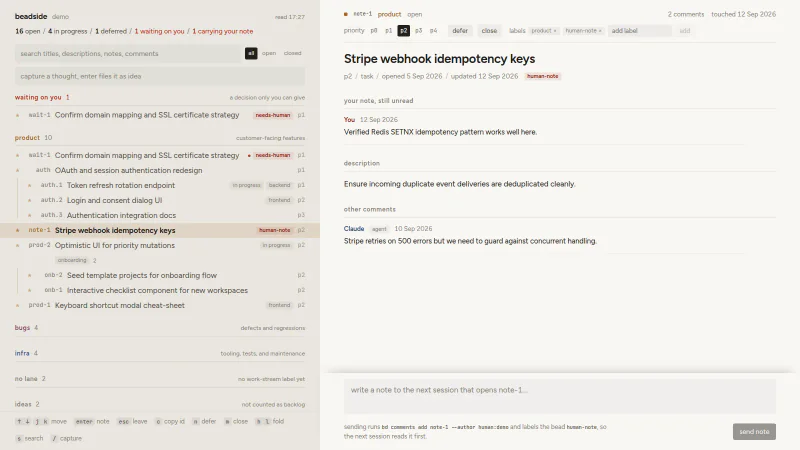
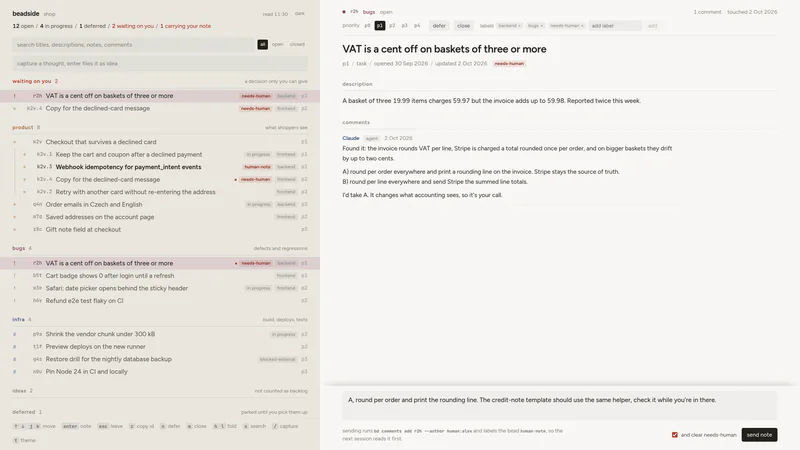
feat: recaptured showcase shots at 2x, second shots for the flagships and nákup told in three phones

diff --git a/src/lib/showcase-images-generated.ts b/src/lib/showcase-images-generated.ts
@@ -3,77 +3,131 @@
 import type { ResponsiveImage } from "./responsive-image";
 
 export const SHOWCASE_IMAGES = {
-    // beadside.webp
+    // beadside-extra-dark-note-1920x1080-2x.png
+    "beadside-note": {
+        src: "/showcase/beadside-note-2560.webp",
+        width: 2560,
+        height: 1440,
+        srcSet: "/showcase/beadside-note-480.webp 480w, /showcase/beadside-note-800.webp 800w, /showcase/beadside-note-1200.webp 1200w, /showcase/beadside-note-1600.webp 1600w, /showcase/beadside-note-2000.webp 2000w, /showcase/beadside-note-2560.webp 2560w",
[1 lines of base64/hex data omitted]
+        color: "#22201d",
+    },
+    // beadside-waiting-1920x1080-2x.png
     beadside: {
-        src: "/showcase/beadside-1600.webp",
-        width: 1600,
-        height: 900,
-        srcSet: "/showcase/beadside-480.webp 480w, /showcase/beadside-800.webp 800w, /showcase/beadside-1200.webp 1200w, /showcase/beadside-1600.webp 1600w",
[1 lines of base64/hex data omitted]
-        color: "#f5f3ef",
+        src: "/showcase/beadside-2560.webp",
+        width: 2560,
+        height: 1440,
+        srcSet: "/showcase/beadside-480.webp 480w, /showcase/beadside-800.webp 800w, /showcase/beadside-1200.webp 1200w, /showcase/beadside-1600.webp 1600w, /showcase/beadside-2000.webp 2000w, /showcase/beadside-2560.webp 2560w",
[1 lines of base64/hex data omitted]
+        color: "#f4f3f0",
     },
-    // diskzokej.webp
+    // diskzokej-dial-2560x1440.png
     diskzokej: {
-        src: "/showcase/diskzokej-1440.webp",
-        width: 1440,
-        height: 900,
-        srcSet: "/showcase/diskzokej-480.webp 480w, /showcase/diskzokej-800.webp 800w, /showcase/diskzokej-1200.webp 1200w, /showcase/diskzokej-1440.webp 1440w",
[1 lines of base64/hex data omitted]
-        color: "#211e18",
+        src: "/showcase/diskzokej-2560.webp",
+        width: 2560,
+        height: 1440,
+        srcSet: "/showcase/diskzokej-480.webp 480w, /showcase/diskzokej-800.webp 800w, /showcase/diskzokej-1200.webp 1200w, /showcase/diskzokej-1600.webp 1600w, /showcase/diskzokej-2000.webp 2000w, /showcase/diskzokej-2560.webp 2560w",
[1 lines of base64/hex data omitted]
+        color: "#561048",
     },
-    // fonts.webp
+    // fonts-swipe-2560x1440.png
     fonts: {
-        src: "/showcase/fonts-1440.webp",
-        width: 1440,
-        height: 900,
-        srcSet: "/showcase/fonts-480.webp 480w, /showcase/fonts-800.webp 800w, /showcase/fonts-1200.webp 1200w, /showcase/fonts-1440.webp 1440w",
[1 lines of base64/hex data omitted]
-        color: "#f1efee",
+        src: "/showcase/fonts-2560.webp",
+        width: 2560,
+        height: 1440,
+        srcSet: "/showcase/fonts-480.webp 480w, /showcase/fonts-800.webp 800w, /showcase/fonts-1200.webp 1200w, /showcase/fonts-1600.webp 1600w, /showcase/fonts-2000.webp 2000w, /showcase/fonts-2560.webp 2560w",
[1 lines of base64/hex data omitted]
+        color: "#f8f7f5",
     },
-    // good-cookie.webp
+    // good-cookie-hero-1920x1080-2x.png
     "good-cookie": {
-        src: "/showcase/good-cookie-1440.webp",
-        width: 1440,
-        height: 900,
-        srcSet: "/showcase/good-cookie-480.webp 480w, /showcase/good-cookie-800.webp 800w, /showcase/good-cookie-1200.webp 1200w, /showcase/good-cookie-1440.webp 1440w",
[1 lines of base64/hex data omitted]
-        color: "#bcb5aa",
+        src: "/showcase/good-cookie-2560.webp",
+        width: 2560,
+        height: 1440,
+        srcSet: "/showcase/good-cookie-480.webp 480w, /showcase/good-cookie-800.webp 800w, /showcase/good-cookie-1200.webp 1200w, /showcase/good-cookie-1600.webp 1600w, /showcase/good-cookie-2000.webp 2000w, /showcase/good-cookie-2560.webp 2560w",
[1 lines of base64/hex data omitted]
+        color: "#cec4b8",
     },
-    // models.webp
+    // models-extra-frontier-1920x1080-2x.png
+    "models-frontier": {
+        src: "/showcase/models-frontier-2560.webp",
+        width: 2560,
+        height: 1440,
+        srcSet: "/showcase/models-frontier-480.webp 480w, /showcase/models-frontier-800.webp 800w, /showcase/models-frontier-1200.webp 1200w, /showcase/models-frontier-1600.webp 1600w, /showcase/models-frontier-2000.webp 2000w, /showcase/models-frontier-2560.webp 2560w",
[1 lines of base64/hex data omitted]
+        color: "#161719",
+    },
+    // models-table-1920x1080-2x.png
     models: {
-        src: "/showcase/models-1440.webp",
-        width: 1440,
-        height: 900,
-        srcSet: "/showcase/models-480.webp 480w, /showcase/models-800.webp 800w, /showcase/models-1200.webp 1200w, /showcase/models-1440.webp 1440w",
[1 lines of base64/hex data omitted]
-        color: "#17191a",
+        src: "/showcase/models-2560.webp",
+        width: 2560,
+        height: 1440,
+        srcSet: "/showcase/models-480.webp 480w, /showcase/models-800.webp 800w, /showcase/models-1200.webp 1200w, /showcase/models-1600.webp 1600w, /showcase/models-2000.webp 2000w, /showcase/models-2560.webp 2560w",
[1 lines of base64/hex data omitted]
+        color: "#171a1c",
     },
-    // nakup.webp
-    nakup: {
-        src: "/showcase/nakup-440.webp",
-        width: 440,
-        height: 850,
-        srcSet: "/showcase/nakup-440.webp 440w",
[1 lines of base64/hex data omitted]
-        color: "#eeeee9",
+    // nakup-2-she-adds-390x844-3x.png
+    "nakup-adds": {
+        src: "/showcase/nakup-adds-1170.webp",
+        width: 1170,
+        height: 2532,
+        srcSet: "/showcase/nakup-adds-480.webp 480w, /showcase/nakup-adds-800.webp 800w, /showcase/nakup-adds-1170.webp 1170w",
[1 lines of base64/hex data omitted]
+        color: "#e7ebf0",
     },
-    // t3.webp
+    // nakup-1-list-390x844-3x.png
+    "nakup-list": {
+        src: "/showcase/nakup-list-1170.webp",
+        width: 1170,
+        height: 2532,
+        srcSet: "/showcase/nakup-list-480.webp 480w, /showcase/nakup-list-800.webp 800w, /showcase/nakup-list-1170.webp 1170w",
[1 lines of base64/hex data omitted]
+        color: "#efebe3",
+    },
+    // nakup-3-in-the-shop-390x844-3x.png
+    "nakup-shop": {
+        src: "/showcase/nakup-shop-1170.webp",
+        width: 1170,
+        height: 2532,
+        srcSet: "/showcase/nakup-shop-480.webp 480w, /showcase/nakup-shop-800.webp 800w, /showcase/nakup-shop-1170.webp 1170w",
[1 lines of base64/hex data omitted]
+        color: "#ede9de",
+    },
+    // t3-extra-ctrl-tab-1920x1080-2x.png
+    "t3-switcher": {
+        src: "/showcase/t3-switcher-2560.webp",
+        width: 2560,
+        height: 1440,
+        srcSet: "/showcase/t3-switcher-480.webp 480w, /showcase/t3-switcher-800.webp 800w, /showcase/t3-switcher-1200.webp 1200w, /showcase/t3-switcher-1600.webp 1600w, /showcase/t3-switcher-2000.webp 2000w, /showcase/t3-switcher-2560.webp 2560w",
[1 lines of base64/hex data omitted]
+        color: "#0d0e18",
+    },
+    // t3-hero-1920x1080-2x.png
     t3: {
-        src: "/showcase/t3-1440.webp",
-        width: 1440,
-        height: 900,
-        srcSet: "/showcase/t3-480.webp 480w, /showcase/t3-800.webp 800w, /showcase/t3-1200.webp 1200w, /showcase/t3-1440.webp 1440w",
[1 lines of base64/hex data omitted]
-        color: "#151223",
+        src: "/showcase/t3-2560.webp",
+        width: 2560,
+        height: 1440,
+        srcSet: "/showcase/t3-480.webp 480w, /showcase/t3-800.webp 800w, /showcase/t3-1200.webp 1200w, /showcase/t3-1600.webp 1600w, /showcase/t3-2000.webp 2000w, /showcase/t3-2560.webp 2560w",
[1 lines of base64/hex data omitted]
+        color: "#111018",
     },
-    // tally.webp
+    // tally-extra-timeline-2560x1440.png
+    "tally-timeline": {
+        src: "/showcase/tally-timeline-2560.webp",
+        width: 2560,
+        height: 1440,
+        srcSet: "/showcase/tally-timeline-480.webp 480w, /showcase/tally-timeline-800.webp 800w, /showcase/tally-timeline-1200.webp 1200w, /showcase/tally-timeline-1600.webp 1600w, /showcase/tally-timeline-2000.webp 2000w, /showcase/tally-timeline-2560.webp 2560w",
[1 lines of base64/hex data omitted]
+        color: "#f3f0ea",
+    },
+    // tally-today-2560x1440.png
     tally: {
-        src: "/showcase/tally-1440.webp",
-        width: 1440,
-        height: 900,
-        srcSet: "/showcase/tally-480.webp 480w, /showcase/tally-800.webp 800w, /showcase/tally-1200.webp 1200w, /showcase/tally-1440.webp 1440w",
[1 lines of base64/hex data omitted]
-        color: "#f1f0ea",
+        src: "/showcase/tally-2560.webp",
+        width: 2560,
+        height: 1440,
+        srcSet: "/showcase/tally-480.webp 480w, /showcase/tally-800.webp 800w, /showcase/tally-1200.webp 1200w, /showcase/tally-1600.webp 1600w, /showcase/tally-2000.webp 2000w, /showcase/tally-2560.webp 2560w",
[1 lines of base64/hex data omitted]
+        color: "#f3f0ea",
     },
 } as const satisfies Record<string, ResponsiveImage>;
 

diff --git a/src/lib/showcase.ts b/src/lib/showcase.ts
@@ -51,8 +51,13 @@ export const SHOWCASE: ShowcaseProject[] = [
         shots: [
             {
                 image: SHOWCASE_IMAGES.beadside,
-                alt: "beadside: an invented backlog grouped by lane, beside an open issue with a human note and an agent's reply",
-                caption: "the real board, with an invented backlog",
+                alt: "beadside in its light look: an invented shop backlog grouped by lane, an agent's either-or question about a vat rounding bug waiting on the human, and a reply typed into the note box",
+                caption: "an agent asks, i answer · invented backlog",
+            },
+            {
+                image: SHOWCASE_IMAGES["beadside-note"],
+                alt: "beadside in its dark look: a webhook issue carrying the human's unread note above an agent's proposal",
+                caption: "the night look: a note the next session reads first",
             },
         ],
         links: [{ href: "https://github.com/thatmike1/beadside", label: "get beadside" }],
@@ -68,8 +73,13 @@ export const SHOWCASE: ShowcaseProject[] = [
         shots: [
             {
                 image: SHOWCASE_IMAGES.tally,
-                alt: "tally explains a synthetic usage block and splits it across three invented development sessions",
-                caption: "the running app, fed entirely synthetic usage and sessions",
+                alt: "tally's today page on a synthetic week: 59% of the five-hour block used, the sessions that spent it, a when-did-it-happen chart and the weekly meters",
+                caption: "the real app, fed an invented week of sessions and meter readings",
+            },
+            {
+                image: SHOWCASE_IMAGES["tally-timeline"],
+                alt: "tally's timeline at day zoom: meter lines, block pace, cost by token kind, and which project ate the points",
+                caption: "the timeline: where a day's points went",
             },
         ],
         links: [{ href: "https://github.com/thatmike1/tally", label: "see the source" }],
@@ -85,8 +95,8 @@ export const SHOWCASE: ShowcaseProject[] = [
         shots: [
             {
                 image: SHOWCASE_IMAGES.fonts,
-                alt: "font tinder shows an unnamed font in a chat and in a long reading sample, with swipe controls below",
-                caption: "judge the font in the places you'll actually read it",
+                alt: "font tinder's swipe screen: one unnamed font set in a chat, a long read, a small settings panel and a letter-detail panel, with nope, skip, love and like below",
+                caption: "judge a font in the places you'll actually read it",
             },
         ],
         links: [{ href: "https://fonts.thatmike1.dev/", label: "find your font" }],
@@ -102,8 +112,8 @@ export const SHOWCASE: ShowcaseProject[] = [
         shots: [
             {
                 image: SHOWCASE_IMAGES.diskzokej,
-                alt: "diskzokej's public radio dial with stations laid out from drift to loud, and a quiet player",
-                caption: "the public dial · it stays quiet until you press play",
+                alt: "diskzokej's public dial tuned to a synthwave station: the needle on the ruler, now playing, and every lane of stations in its own column",
+                caption: "the public dial, on air",
             },
         ],
         links: [{ href: "https://diskzokej.thatmike1.dev/", label: "turn the dial" }],
@@ -119,8 +129,13 @@ export const SHOWCASE: ShowcaseProject[] = [
         shots: [
             {
                 image: SHOWCASE_IMAGES.models,
-                alt: "model map's sortable table of models and reasoning efforts, with cost per task and benchmark filters",
+                alt: "model map's ranked table of models and reasoning efforts, with filters above and the best value in each column shaded",
                 caption: "a snapshot; today's ranking has probably moved",
+            },
+            {
+                image: SHOWCASE_IMAGES["models-frontier"],
+                alt: "model map's score-against-cost chart: intelligence index against dollars per task on a log scale, with the frontier stepping through the best points",
+                caption: "up and left is better; the line is the frontier",
             },
         ],
         links: [{ href: "https://models.thatmike1.dev/", label: "explore the map" }],
@@ -136,8 +151,13 @@ export const SHOWCASE: ShowcaseProject[] = [
         shots: [
             {
                 image: SHOWCASE_IMAGES.t3,
-                alt: "the t3 code fork's showcase site walks through the keyboard, sidebar, widget and issue-link additions in a demo thread",
+                alt: "the t3 code fork's showcase site: a big heading beside a live mock of the app with numbered dots on each addition",
                 caption: "the showcase site: click through the additions before installing anything",
+            },
+            {
+                image: SHOWCASE_IMAGES["t3-switcher"],
+                alt: "the showcase's ctrl+tab demo caught with the recent-threads switcher open",
+                caption: "ctrl+tab between threads, the way an editor does it",
             },
         ],
         links: [
@@ -160,8 +180,8 @@ export const SUPPORTING: ShowcaseProject[] = [
         shots: [
             {
                 image: SHOWCASE_IMAGES["good-cookie"],
-                alt: "good cookie's live demo: its consent banner holding back a tracking script on an invented shop",
-                caption: "the working banner demo, on a made-up shop",
+                alt: "good cookie's homepage: the $29 pack pitch beside a live consent banner on a made-up shop, with a tracking-cookie probe and a readout of what got blocked",
+                caption: "the real banner, on a made-up shop",
             },
         ],
         links: [{ href: "https://goodcookie.app/", label: "try the banner" }],
@@ -176,9 +196,19 @@ export const SUPPORTING: ShowcaseProject[] = [
         stack: "react · typescript · dependency-free node · sse · service worker",
         shots: [
             {
-                image: SHOWCASE_IMAGES.nakup,
-                alt: "nákup with invented groceries and two anonymous people, in blue and yellow inks",
-                caption: "the actual app · invented groceries and people",
+                image: SHOWCASE_IMAGES["nakup-list"],
+                alt: "nákup on tomáš's phone at home: fourteen things on the list in two inks, and a line saying bára is looking too",
+                caption: "1 · at home, both inks on one list · an invented household",
+            },
+            {
+                image: SHOWCASE_IMAGES["nakup-adds"],
+                alt: "nákup on bára's phone while tomáš is in the shop: the header says he's shopping, and she is typing parmazán",
+                caption: "2 · she adds while he shops",
+            },
+            {
+                image: SHOWCASE_IMAGES["nakup-shop"],
+                alt: "nákup in the shop: five of fifteen in the basket, and bára's late smetana ke šlehání flagged in her ink",
+                caption: "3 · in the shop, her late addition lights up",
             },
         ],
         links: [],
